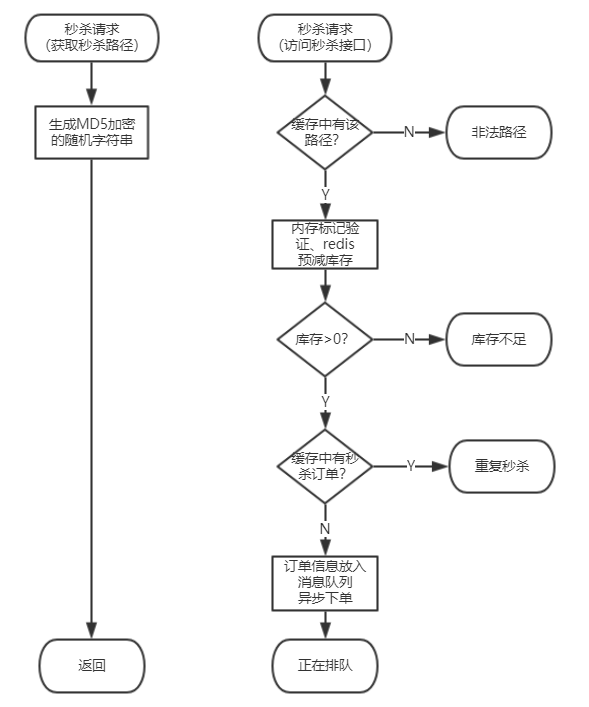
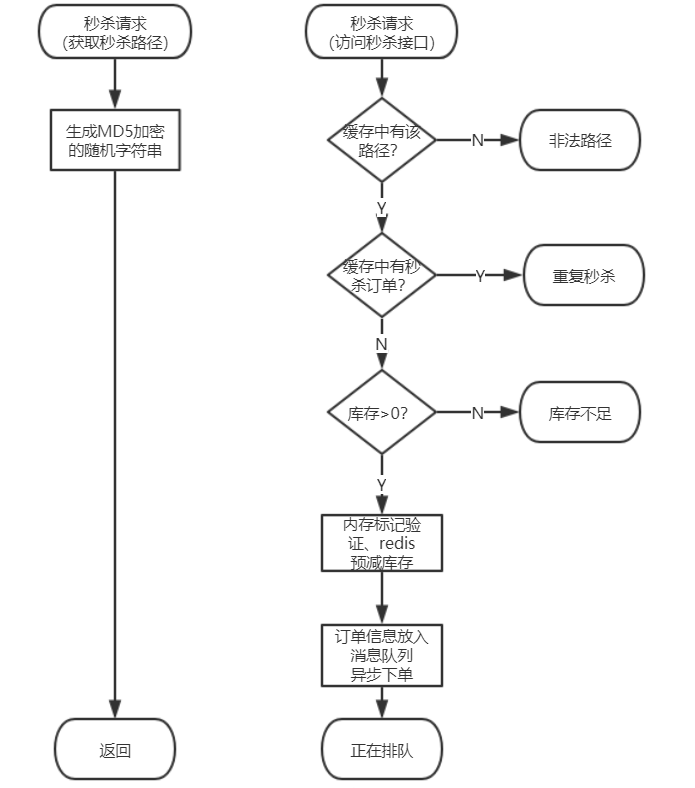
秒杀接口修改

Changed region(s): [[0.4278, 0.0, 0.9474, 0.9958], [0.0306, 0.0, 0.275, 0.9958], [0.764, 0.3112, 0.9474, 0.4045]]

diff --git a/src/main/java/pers/fairy/miusa/controller/MiusaController.java b/src/main/java/pers/fairy/miusa/controller/MiusaController.java
@@ -87,6 +87,11 @@ public class MiusaController implements InitializingBean {
         if (!isValidPath) {
             return Result.ERROR("非法路径");
         }
+        // 判断是否已经秒杀
+        MiusaOrder miusaOrder = miusaOrderService.getMiusaOrderByGoodsId(goodsId);
+        if (miusaOrder != null) {
+            return Result.ORDER_ERROR("您已下单，请前往查看");
+        }
         // 从内存中查看商品是否售罄
         if (goodsNotInStock.contains(goodsId)) {
             return Result.GOOD_ERROR("手慢一步！商品已售罄");
@@ -96,11 +101,6 @@ public class MiusaController implements InitializingBean {
         if (stock < 0) {
             goodsNotInStock.add(goodsId); // 在内存中标记售罄的商品，避免下次请求访问 redis 产生的开销。
             return Result.GOOD_ERROR("手慢一步！商品已售罄");
-        }
-        // 判断是否已经秒杀
-        MiusaOrder miusaOrder = miusaOrderService.getMiusaOrderByGoodsId(goodsId);
-        if (miusaOrder != null) {
-            return Result.ORDER_ERROR("您已下单，请前往查看");
         }
         // 将订单放到消息队列异步处理，然后返回排队等候的状态
         MiusaMessage message = getMiusaMessage(goodsId);

diff --git a/src/main/java/pers/fairy/miusa/common/validator/IsMobile.java b/src/main/java/pers/fairy/miusa/common/validator/IsMobile.java
@@ -15,10 +15,10 @@ import java.lang.annotation.*;
         validatedBy = {IsMobileValidator.class}
 )
 public @interface IsMobile {
-
+    // required 和 message 是自定义参数，groups 和 payload 是两个必须包含的参数。
     boolean required() default true;
 
-    String message() default "手机号码格式错误！";
+    String message() default "手机号码格式错误！"; // 校验失败时的错误信息
 
     Class<?>[] groups() default {};
 

diff --git a/README.md b/README.md
@@ -43,7 +43,7 @@ public Result login(@Valid LoginVO loginForm, HttpServletResponse response) {
 }
 ```
 
-如上面这段代码所示，我们把校验业务封装在校验器里，在 Controller 层只有一个`@Valid`注解就能完成参数校验的工作。校验细节如下（验证账号是否为合法手机号）：
+如上面这段代码所示，我们把校验业务封装在校验器里，在 Controller 层只有一个`@Valid`注解，它表示对被修饰的参数启用校验功能。校验细节如下（验证账号是否为合法手机号）：
 
 ```java
 public class LoginVO {
@@ -70,14 +70,12 @@ public class LoginVO {
         validatedBy = {IsMobileValidator.class}
 )
 public @interface IsMobile {
-// required 和 message 是自定义参数，groups 和 payload 是两个必须包含的参数。
+
     boolean required() default true;
 
     String message() default "手机号码格式错误！"; // 校验失败时的错误信息
 
-    Class<?>[] groups() default {};
-
-    Class<? extends Payload>[] payload() default {};
+	···
 }
 ```
 
@@ -117,7 +115,9 @@ public class IsMobileValidator implements ConstraintValidator<IsMobile, String> 
 
 秒杀接口首先检查秒杀地址是否有效：将请求路径中包含的随机字符串和缓存中保存的第一次请求产生的秒杀路径对比。
 
-然后判断商品库存是否足够：先从内存标记（一个保存售罄商品 ID 的 Set）中查看，如果内存标记标记了该商品，则直接返回商品售罄的信息给用户，否则通过网络访问 redis 缓存，redis 预减库存，并将减少后的库存数返回。如果返回值小于 0（商品库存不足）则在内存标记中添加该商品 ID，并返回，否则从缓存中根据商品编号读取秒杀订单。如果缓存中有该订单，则直接返回，避免重复下单，否则将订单信息放入消息队列，然后返回排队处理订单的信息，后台异步处理订单。
+接着从缓存中根据商品编号读取秒杀订单。如果缓存中有该订单，则直接返回，避免重复下单。
+
+否则判断商品库存是否足够：先从内存标记（一个保存售罄商品 ID 的集合）中查看，如果内存标记标记了该商品，则直接返回商品售罄的信息给用户，否则通过网络访问 redis 缓存，redis 预减库存，并将减少后的库存数返回。如果返回值小于 0（商品库存不足）则在内存标记中添加该商品 ID，并返回。否则将订单信息放入消息队列，然后返回排队处理订单的信息，后台异步处理订单。
 
 ![秒杀流程final](开发日志/秒杀流程final.png)
 
@@ -161,7 +161,7 @@ public class IsMobileValidator implements ConstraintValidator<IsMobile, String> 
 
 上图流程中库存的判断涉及到从数据库取商品信息，秒杀商品涉及下单、更新库存等访问数据库的操作，而实际的秒杀中，请求数量是相当高的。MySQL 是持久化存储，数据存放在磁盘里面，在读写时会涉及到一定的 IO，所以数据库往往成为网站的性能瓶颈。
 
-项目中使用缓存、内存标记等手段预存商品库存，请求到来时优先利用这两处判断商品库存是否充足。我把涉及数据库的秒杀商品的操作与秒杀时限的判断合并在一起，然后让 RabbitMQ 的消费者来执行。
+项目中使用缓存、内存标记等手段预存商品库存，请求到来时优先利用这两处判断商品库存是否充足。我把涉及数据库的秒杀商品的操作与秒杀时限的判断合并在一起，然后让消息队列的消费者来执行。
 
 使用内存标记记录已售罄的商品是为了避免随后的请求访问相同商品时访问 redis 数据库，减少网络开销。
 
@@ -169,8 +169,7 @@ public class IsMobileValidator implements ConstraintValidator<IsMobile, String> 
 @RabbitListener(queues = MQConfiguration.MIUSA_QUEUE)
 public void receiveMiusaMessage(String message) {
     MiusaMessage miusaMessage = JSON.parseObject(message, MiusaMessage.class);
-    Long userId = miusaMessage.getUserId();
-    Long goodsId = miusaMessage.getGoodsId();
+    ···
     GoodsVO goods = miusaGoodsService.getGoodsVOById(goodsId);
     // 检查是否处于秒杀时间
     long miusaTime = miusaMessage.getMiusaTime();
@@ -197,6 +196,11 @@ public Result doMiusa(@RequestParam Long goodsId,
     if (!isValidPath) {
         return Result.ERROR("非法路径");
     }
+    // 判断是否已经秒杀
+    MiusaOrder miusaOrder = miusaOrderService.getMiusaOrderByGoodsId(goodsId);
+    if (miusaOrder != null) {
+        return Result.ORDER_ERROR("您已下单，请前往查看");
+    }
     // 从内存中查看商品是否售罄
     if (goodsNotInStock.contains(goodsId)) {
         return Result.GOOD_ERROR("手慢一步！商品已售罄");
@@ -206,11 +210,6 @@ public Result doMiusa(@RequestParam Long goodsId,
     if (stock < 0) {
         goodsNotInStock.add(goodsId); // 标记售罄的商品，避免下次请求访问 redis 产生的开销。
         return Result.GOOD_ERROR("手慢一步！商品已售罄");
-    }
-    // 判断是否已经秒杀
-    MiusaOrder miusaOrder = miusaOrderService.getMiusaOrderByGoodsId(goodsId);
-    if (miusaOrder != null) {
-        return Result.ORDER_ERROR("您已下单，请前往查看");
     }
     // 将订单放到消息队列异步处理，然后返回排队等候的状态
     MiusaMessage message = getMiusaMessage(goodsId);
@@ -243,7 +242,7 @@ public Result doMiusa(@RequestParam Long goodsId,
 
 4）CSS 放在页面最上面，JavaScript 放在最下面：浏览器会在下载完全部的 CSS 之后才渲染页面。
 
-5）减少 cookie 传输：对于静态资源的访问，发送 Cookie没有意义，使用独立域名访问静态资源，避免请求静态资源时发送 Cookie。
+5）减少 Cookie 传输：对于静态资源的访问，发送 Cookie 没有意义，使用独立域名访问静态资源，避免请求静态资源时发送 Cookie。
 
 2.**CDN（Content Distribute Network，内容分发网络) 缓存静态资源**
 
@@ -298,7 +297,7 @@ public Result doMiusa(@RequestParam Long goodsId,
 
 ### 参考
 
-若鱼1919.Java秒杀系统方案优化 高性能高并发实战.慕课网
+若鱼1919.Java秒杀系统方案优化高性能高并发实战.慕课网
 
 李智慧.大型网站技术架构：核心原理与案例分析.电子工业出版社.2013
 
